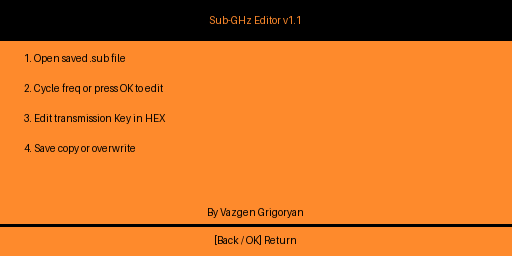
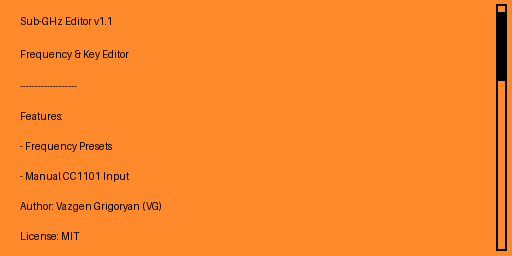
feat: enhance About screen with scrollable text, author initials (VG), and CODEOWNERS

diff --git a/subghz_editor_view.c b/subghz_editor_view.c
@@ -434,3 +434,31 @@ void subghz_editor_view_init(SubGhzEditorApp* app) {
         app);
     subghz_editor_view_refresh_list(app);
 }
+
+void subghz_editor_show_about(SubGhzEditorApp* app) {
+    widget_reset(app->widget);
+    widget_add_text_scroll_element(
+        app->widget,
+        0,
+        0,
+        128,
+        64,
+        "\e#Sub-GHz Editor v1.1\e#\n"
+        "\e#Frequency & Key Editor\e#\n"
+        "-------------------\n"
+        "Features:\n"
+        "- Frequency Presets\n"
+        "- Manual CC1101 Input\n"
+        "- Hex Key Code Editor\n"
+        "- Direct .sub File Load\n"
+        "- Save & Save As Copy\n"
+        "-------------------\n"
+        "Author:\n"
+        "Vazgen Grigoryan (VG)\n"
+        "License: MIT\n"
+        "-------------------\n"
+        "GitHub Project:\n"
+        "vazgen3201/flipper-\n"
+        "subghz-editor\n");
+    view_dispatcher_switch_to_view(app->view_dispatcher, SubGhzEditorViewWidget);
+}

diff --git a/subghz_editor_view.h b/subghz_editor_view.h
@@ -5,4 +5,5 @@
 void subghz_editor_view_init(SubGhzEditorApp* app);
 void subghz_editor_view_refresh_list(SubGhzEditorApp* app);
 void subghz_editor_show_message(SubGhzEditorApp* app, const char* title, const char* msg);
+void subghz_editor_show_about(SubGhzEditorApp* app);
 bool subghz_editor_custom_event_callback(void* context, uint32_t event);
